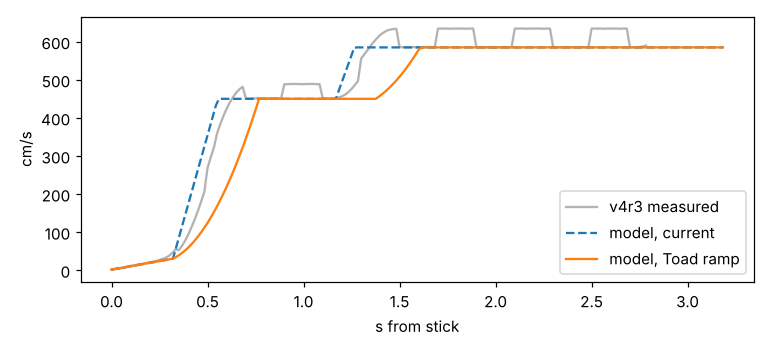
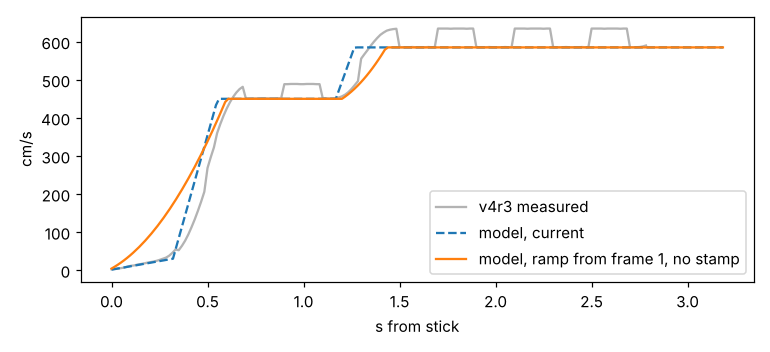
Run start ramp: no stamp, ramp from frame 1 (owner: stomp meant the run stop)
Claude-Session: https://claude.ai/code/session_01G2pw48NnJYTFVxnphUDkwA

diff --git a/Tools/GAS/setup_run_start_ramp.py b/Tools/GAS/setup_run_start_ramp.py
@@ -1,7 +1,8 @@
 # Gradual run start (owner 2026-11-20, Toad reference: "takes a while to get going" = gradual acceleration, not a standstill).
-# Data only, shared profile DA_Locomotion_Default (all kits). Keeps the 0.33 s stamp (identity trait) and replaces the two
-# acceleration steps after it (stamp -> stage 1 top in ~0.23 s, stage 1 -> 2 in ~0.2 s) with linear acceleration ramps
-# (FGSTN_RunStage AccelRampFrames / RampStartFraction, existing fields; the stage 1 ramp starts at the end of the stamp).
+# Data only, shared profile DA_Locomotion_Default (all kits). Owner 19:12Z: the "stomp" was meant for the run STOP, so the run
+# start has no standstill: the start stamp goes off (Frames 0) and the two acceleration steps (stage 1 top in ~0.23 s, stage 1 -> 2
+# in ~0.2 s) become linear acceleration ramps (FGSTN_RunStage AccelRampFrames / RampStartFraction, existing fields) from frame 1.
+# The frantic rev-up stays in the clip (its planted first step must be trimmed in a pose pass, or the feet slide).
 # Measure + target: docs/notes/runstart-accel/report.md. Hand tuning: DA_Locomotion_Default > Run Stages > Stages[i] >
 # Acceleration Ramp (frames at 62.5 Hz). Idempotent: a stage whose ramp is already on (AccelRampFrames > 0) is left alone.
 # RAMP_MODE=dump only writes the current values. Headless (editor closed):
@@ -13,7 +14,8 @@ import unreal
 
 NAME = 'DA_Locomotion_Default'
 # stage index -> (AccelRampFrames, RampStartFraction). Toad: ~0.33 s in place, then ~0.6 s of growing speed, no step.
-RAMPS = {0: (31, 0.15), 1: (30, 0.25)}
+RAMPS = {0: (62, 0.15), 1: (30, 0.25)}
+STAMP_FRAMES = 0   # was 21 (0.33 s almost in place); set it back here or in the asset to restore the stamp
 FIELDS = ('max_speed', 'acceleration', 'frames_to_next_stage', 'next_stage_speed_fraction', 'accel_ramp_frames', 'ramp_start_fraction')
 
 
@@ -41,6 +43,11 @@ def run():
         if dump_only:
             continue
         stages, changed = list(rs.get_editor_property('stages')), False
+        stamp = rs.get_editor_property('start_stamp')
+        if stamp.get_editor_property('frames') != STAMP_FRAMES:
+            stamp.set_editor_property('frames', STAMP_FRAMES)
+            rs.set_editor_property('start_stamp', stamp)
+            changed = True
         for i, (frames, start) in RAMPS.items():
             if i >= len(stages) or stages[i].get_editor_property('accel_ramp_frames') > 0:
                 continue

diff --git a/docs/notes/runstart-accel/ramp_preview.py b/docs/notes/runstart-accel/ramp_preview.py
@@ -1,4 +1,4 @@
-"""Paper preview of the capsule speed: current profile vs the Toad ramp (setup_run_start_ramp.py values).
+"""Paper preview of the capsule speed: current profile vs the Toad ramp (setup_run_start_ramp.py values: stamp off, stage 1 ramp 62 f from 0.15).
 Simplified model of GSTN_RunStageLogic (stamp, linear accel ramp, stage hold), 62.5 Hz. Stage tops = measured shelf 450 and
 steady 585 (v4r3 capture), accels = code defaults 1800/1400 (asset values not read). Prints max 5 lines.
 Usage: python ramp_preview.py metrics_v4r3.json out.png"""
@@ -18,11 +18,11 @@ def sim(ramps, n=200, stamp=21):
             held = held + 1 if v >= .9 * tops[0] else 0
             if held >= hold: st, rf = 1, 0
     return [i * DT for i in range(n)], out
-t0, v0 = sim({0: (0, 1), 1: (0, 1)}); t1, v1 = sim({0: (31, .15), 1: (30, .25)})
+t0, v0 = sim({0: (0, 1), 1: (0, 1)}); t1, v1 = sim({0: (62, .15), 1: (30, .25)}, stamp=0)
 d = json.load(open(sys.argv[1])); x = {r["f"]: r["actor_x"] for r in d}
 tm = [(f - 82) / 60 for f in range(82, 250)]; vm = [(x[f + 6] - x[f - 6]) / 12 * 60 for f in range(82, 250)]
 plt.figure(figsize=(7, 3.2)); plt.plot(tm, vm, c="0.7", label="v4r3 measured"); plt.plot(t0, v0, "--", label="model, current")
-plt.plot(t1, v1, label="model, Toad ramp"); plt.xlabel("s from stick"); plt.ylabel("cm/s"); plt.legend(); plt.tight_layout()
+plt.plot(t1, v1, label="model, ramp from frame 1, no stamp"); plt.xlabel("s from stick"); plt.ylabel("cm/s"); plt.legend(); plt.tight_layout()
 plt.savefig(sys.argv[2], dpi=110)
-for name, t, v in (("current", t0, v0), ("toad", t1, v1)):
+for name, t, v in (("current", t0, v0), ("ramp", t1, v1)):
     print(name, "t50 %.2f t77 %.2f t95 %.2f s" % tuple(next(ti for ti, vi in zip(t, v) if vi >= p * 585) for p in (.5, .77, .95)))

diff --git a/docs/notes/gasp-divergenze.md b/docs/notes/gasp-divergenze.md
@@ -17,6 +17,6 @@ PRIMA del commit. Prima di aggiungerla chiedi all'Unreal Assistant come lo fa GA
 | 10 | Skid (skid-fix-1): il capsule segue la root della clip dell'owner (`SS_180_Turn_Root180`, RootTrack + TurnCurve baked) dal primo frame alla fine della clip (0,83 s), niente brake a formula né spinta verso lo stick; lo stato Skid esce solo a fine skid sim. Resta divergente: (a) la skid è un layered move OverrideVelocity nostro, non una riga pivot del chooser con pose match; (b) la rotazione totale è l'angolo verso lo stick latchato (cono 45°) scalato dalla curva della clip, non orientation warping; (c) la root della clip è stimata dal pelvis (Mixamo senza root motion), quindi la frenata è quella della clip (~48 cm) e non più Brake 2600 | GSTN_LayeredMove_RunSkid.cpp, GSTN_RunSkidTypes.h (RootTrack), Tools/GAS/skid_turn_curve_bake.py, Tools/GAS/skid_fix_rules.py, ABP_GSTN_Locomotion (uscite Skid) | owner 2026-11-20: durante la skid il controller ruotava e spostava il corpo verso lo stick (uscita a 8 frame + walking mode da 0,37 s) e il piede dietro scivolava | pivot stock: riga in Run F Loco Transitions con IsPivoting, PoseSearchColumn, warping e Offset Root Bone | `SKID_ROOT_TRACK=0` nel bake (torna brake + uscita, 0 $); pivot nel chooser ~5-8 $ | attivo (skid-fix-1) |
 | 11 | Run start v3 nella base pulita: righe sorelle di `M_Relaxed_Run_Start_F_Rfoot`/`_Lfoot` in Run F Loco Transitions con `AS_GSTN_RunStart_v3` (celle copiate, pose match tenuto, righe stock disabilitate, non cancellate) | CHT_GSTN_StockMover_PoseMatch (base `gstn.Loco.Base 1`), Tools/AnimPipeline/cards/runstop/stops_rows_ue.py | owner 2026-11-20: review del run start v3 in gioco sulla base GASP pulita (regola 14: variante = riga della tabella, come run stop v3) | run start stock pose-matched (le due righe mocap) | `RS_ROWS=stock` con le stesse RS_PAIRS (0 $) | attivo (runstart-v3-review-1) |
 | 12 | Run start v4 (giro di posa 1): `AS_GSTN_RunStart_v4r1` = 1,5 s di stomp + corsa frantica + **coda di 0,75 s di run loop stock** (69 frame a 30 fps), così l'uscita stock "almost complete" (<= 0,75 s alla fine) cade nella coda e la parte animata si vede tutta; notify **Pose Search: Block Transition** (UAnimNotifyState_PoseSearchBlockTransition) da 0,05 s alla fine, così la riga pose-matched entra solo all'inizio; righe sorelle come la 11, con v3 disabilitata | AS_GSTN_RunStart_v4r1, CHT_GSTN_StockMover_PoseMatch (base 1), Tools/AnimPipeline/cards/runstart/runstart_compose_casc_v4.py, runstart_v4_ue.py, stops_rows_ue.py | review Fable r1 (base 1 troncava v3 a ~1 s ed entrava a 0,15 s perdendo la carica); decisione applicata dal coordinatore 2026-11-20 (regola 6). Unreal Assistant 2026-11-20 (Saved/Assistant/replies.json): la soglia sta nel grafo della regola di transizione, nessuna impostazione di clip/riga la sposta, la coda è il modo compatibile con lo stock; Block Transition è il modo documentato per limitare la finestra d'ingresso | clip stock pose-matched che esce a evento; nessuna coda, nessun notify | `RS_ROWS=stock` con RS_PAIRS verso v4r1 (0 $); la coda e il notify vivono solo nella clip | attivo (runstart-v3-pose-1); giro 3: stessa divergenza con `AS_GSTN_RunStart_v4r3` (righe v4r2 spente, runstart-v3-pose-2) |
-| 13 | Run start accel ramp (runstart-accel-1): stage 1 and 2 of the run stages get a linear acceleration ramp (`AccelRampFrames` 31/30, `RampStartFraction` 0.15/0.25, frames at 62.5 Hz) after the 0.33 s stamp, Toad reference (owner 2026-11-20: gradual start, tune by hand) | Tools/GAS/setup_run_start_ramp.py, DA_Locomotion_Default > Run Stages | gradual start without a speed step | stock GASP Mover: SmoothWalkingMode acceleration curve (to confirm with the Unreal Assistant) | very low: set AccelRampFrames to 0 | da provare |
+| 13 | Run start accel ramp (runstart-accel-1): start stamp off (Frames 0) and stage 1 and 2 of the run stages get a linear acceleration ramp (`AccelRampFrames` 62/30, `RampStartFraction` 0.15/0.25, frames at 62.5 Hz) from frame 1, Toad reference (owner 2026-11-20: gradual start, no standstill, tune by hand) | Tools/GAS/setup_run_start_ramp.py, DA_Locomotion_Default > Run Stages | gradual start without a speed step | stock GASP Mover: SmoothWalkingMode acceleration curve (to confirm with the Unreal Assistant) | very low: set AccelRampFrames to 0 | da provare |
 
 Decisione owner 2026-11-20: 1A (base stock nuova, la vecchia resta per confronto); vedi "Make run start flow into the run".

diff --git a/docs/notes/runstart-accel/report.md b/docs/notes/runstart-accel/report.md
@@ -40,3 +40,17 @@ B (owner decision, touches trait 1): let the capsule creep during the stomp (Acc
 C Animation only: keep the capsule, make the clip carry the gradual feel (stride length grows, cadence already high).
   Cheapest on sim, but the capsule snap stays visible against the ground: not recommended alone.
 Rule 14: run stages are our divergence from stock GASP Mover; any change needs its line in docs/notes/gasp-divergenze.md.
+
+## Update 19:15Z: no stamp (owner: "stomp" meant the run STOP)
+Trait 1 of runstart-identity.md (0.3 s stomp) is withdrawn for the run start. New proposal, `setup_run_start_ramp.py`
+(not applied yet, paper model `ramp_preview.py` / `ramp_preview.png`, the model reproduces the v4r3 capture):
+- Start Stamp Frames 21 -> 0: the capsule moves from frame 1.
+- Stage 1: AccelRampFrames 62 (~1 s), RampStartFraction 0.15: ease-in, ~85 cm/s at 0.2 s, 450 at ~0.6 s, no snap.
+- Stage 2: AccelRampFrames 30, RampStartFraction 0.25: 450 -> 585 over ~0.25 s instead of a step.
+- Model: t50 0.46 s (v4r3 0.52), stage 1 top 0.6 s, steady 1.41 s; the flat run phase 0.6-1.2 s is the stage design
+  (Stages[0] FramesToNextStage 40): shorten it by hand if the run should flow straight into sprint 1.
+Hand-tuning fields (DA_Locomotion_Default > Run Stages): Start Stamp > Frames; Stages[0|1] > Acceleration Ramp > Accel Ramp
+Frames, Ramp Start Fraction; Stages[0] > Acceleration, Frames To Next Stage.
+Needs from a pose thread before applying (else the feet slide in the first 0.3 s): AS_GSTN_RunStart_v4r* without the
+planted stomp step: frantic cadence from the first contact, stride growing with the ramp (~0.85 m/s at 0.2 s, 4.5 m/s at
+0.6 s), root motion off or matching; capture and Fable review together with this data change.
